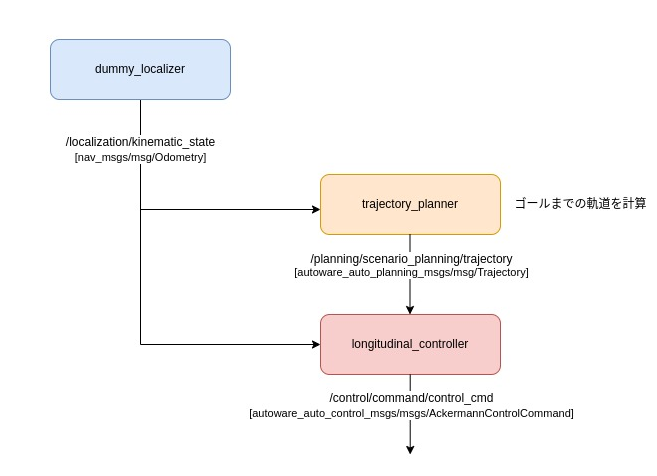
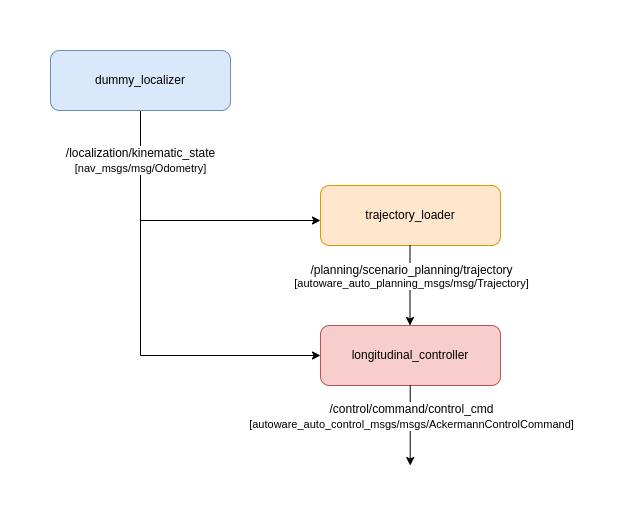
docs: to accomodate the PR#30 in autoware-practice, update the command to run the node that publishes Trajectory (#27)

Changed region(s): [[0.0608, 0.0588, 1.0, 0.9706]]

diff --git a/docs/course/velocity_planning.md b/docs/course/velocity_planning.md
@@ -7,10 +7,10 @@
 
 まず、車両の速度を取得してみましょう。
 
-車両の速度は/localization/kinematic_stateというトピックでパブリッシュされます。
-/localization/kinematic_stateには自車両の位置、姿勢、速度、角速度とそれらの共分散行列の情報が含まれています。
+車両の速度は`/localization/kinematic_state`というトピックでパブリッシュされます。
+`/localization/kinematic_state`には自車両の位置、姿勢、速度、角速度とそれらの共分散行列の情報が含まれています。
 
-本来Autowareでは以下のノードダイアグラムのように、GNSS、Lidar、IMUなどの情報をもとにekf_localizerが/localization/kinematic_stateを計算します。
+本来Autowareでは以下のノードダイアグラムのように、GNSS、Lidar、IMUなどの情報をもとにekf_localizerが`/localization/kinematic_state`を計算します。
 
 <div align="center">
   <img src="../images/localization_node.png" alt="Alt Text">
@@ -20,15 +20,14 @@
 
 <br>
 
-しかし初心者にAutowareの説明をするのにこの構成はかなり複雑なので、今回は以下のようにシンプルな
-localizerを用意しました。
+しかし初心者にAutowareの説明をするのにこの構成はかなり複雑なので、今回は以下のようにシンプルなdummy_localizerを用意しました。
 
 <br>
 
 <div align="center">
   <img src="../images/practice_localization_node.png" alt="Alt Text">
   <br>
-  <em>autoware-practiceのlocalizer周りのノードダイアグラム</em>
+  <em>autoware-practiceのdummy_localizer周りのノードダイアグラム</em>
 </div>
 
 <br>
@@ -149,7 +148,7 @@ twist:
 ---
 ```
 
-[/localization/kinematic_state]()というトピックは [nav_msgs/msgs/Odometry](https://docs.ros2.org/foxy/api/geometry_msgs/msg/Pose.html) というROS2のメッセージ型を利用しています。
+`/localization/kinematic_state`というトピックは [nav_msgs/msgs/Odometry](https://docs.ros2.org/foxy/api/geometry_msgs/msg/Pose.html) というROS2のメッセージ型を利用しています。
 
 
 ## 02-02. 車両速度を目標速度に収束させる
@@ -194,7 +193,7 @@ ros2 run plotjuggler plotjuggler
 
 ![plotjuggler_1](./images/plotjuggler_1.png)
 
-/localization/kinematic_stateをクリックし右下のOKをクリックします。
+`/localization/kinematic_stat`をクリックし右下のOKをクリックします。
 
 左下のTimeseries.Listからlocalization > kinematic_state > twist > twist > linear > x を選択し、右側にドラッグ＆ドロップをすると速度の時間推移を表すグラフを表示することができます。
 
@@ -220,11 +219,27 @@ ros2 run autoware_practice_course p_controller --ros-args -p kp:=5.0 -p target_v
 
 速度計画を行うために車両から目標地点までの間に1mおきに中継地点となるウェイポイントを設定します。各ウェイポイントに目標速度を設定することで速度計画を行います。
 
-各ウェイポイントの目標速度を決定するためのtrajectory_plannerノードと、各ウェイポイントを基に制御入力を決定するlongitudinal_controllerノードを作成しました。
+各ウェイポイントの目標速度をcsvファイルから読み取るtrajectory_loaderノードと、各ウェイポイントを基に制御入力を決定するlongitudinal_controllerノードを作成しました。
+今回は以下のtrajectory.csvを読み取ります。csvファイルには各ウェイポイントでの目標速度が記載されています。
 
-![alt text](./images/2-3/node_diagram.png)
+- [velocity_planning/trajectory_loader.hpp](https://github.com/AutomotiveAIChallenge/autoware-practice/blob/main/src/autoware_practice_course/src/velocity_planning/trajectory_loader.hpp)
+- [velocity_planning/trajectory_loader.cpp](https://github.com/AutomotiveAIChallenge/autoware-practice/blob/main/src/autoware_practice_course/src/velocity_planning/trajectory_loader.cpp)
+- [config/trajectory.csv](https://github.com/AutomotiveAIChallenge/autoware-practice/blob/main/src/autoware_practice_course/config/trajectory.csv)
+- [velocity_planning/longitudinal_controller.hpp](https://github.com/AutomotiveAIChallenge/autoware-practice/blob/main/src/autoware_practice_course/src/velocity_planning/longitudinal_controller.hpp)
+- [velocity_planning/longitudinal_controller.cpp](https://github.com/AutomotiveAIChallenge/autoware-practice/blob/main/src/autoware_practice_course/src/velocity_planning/longitudinal_controller.cpp)
 
-trajectory_plannerノードがスタートからゴールまでの各ウェイポイントの目標速度を決定します。
+<br>
+
+<div align="center">
+  <img src="../images/2-3/node_diagram.png" alt="Alt Text">
+  <br>
+  <em>autoware-practiceのtrajectory_loader周りのノードダイアグラム</em>
+</div>
+
+<br>
+
+
+trajectory_loaderノードがスタートからゴールまでの各ウェイポイントの目標速度をcsvファイルから読み取ります。
 longitudinal_controllerノードが車両に最も近いウェイポイントを探索し、ウェイポイントでの目標速度と現在の車両の速度を基に制御入力を決定します。
 
 各ノードは以下のコマンドを別々のターミナルで実行することで起動することができます。
@@ -234,7 +249,7 @@ ros2 launch autoware_practice_launch practice.launch.xml
 ```
 
 ```bash
-ros2 run autoware_practice_course trajectory_planner 
+ros2 run autoware_practice_course trajectory_loader --ros-args -p path_file:=src/autoware_practice_course/config/trajectory.csv
 ```
 
 ```bash
@@ -262,7 +277,7 @@ PlotJugglerが起動したらStartボタンを押します。
 
 ![alt text](./images/2-3/PlotJuggler2.png)
 
-/localization/kinematic_state/pose/pose/position/xと/localization/kinematic_state/twist/twist/linear/xを複数選択して**右クリック**でドラッグ＆ドロップすることで、位置と速度の関係のグラフを見ることができます。
+`/localization/kinematic_state/pose/pose/position/x`と`/localization/kinematic_state/twist/twist/linear/x`を複数選択して**右クリック**でドラッグ＆ドロップすることで、位置と速度の関係のグラフを見ることができます。
 
 ![alt text](./images/2-3/PlotJuggler3.png)
 
@@ -274,10 +289,10 @@ PlotJugglerが起動したらStartボタンを押します。
 
 ![alt text](./images/2-3/PlotJuggler6.png)
 
-次にtrajectory_plannerノードとlongitudinal_controllerノードをそれぞれ別のターミナルで起動します。
+次にtrajectory_loaderノードとlongitudinal_controllerノードをそれぞれ別のターミナルで起動します。
 
 ```bash
-ros2 run autoware_practice_course trajectory_planner 
+ros2 run autoware_practice_course trajectory_loader --ros-args -p path_file:=src/autoware_practice_course/config/trajectory.csv
 ```
 
 ```bash
